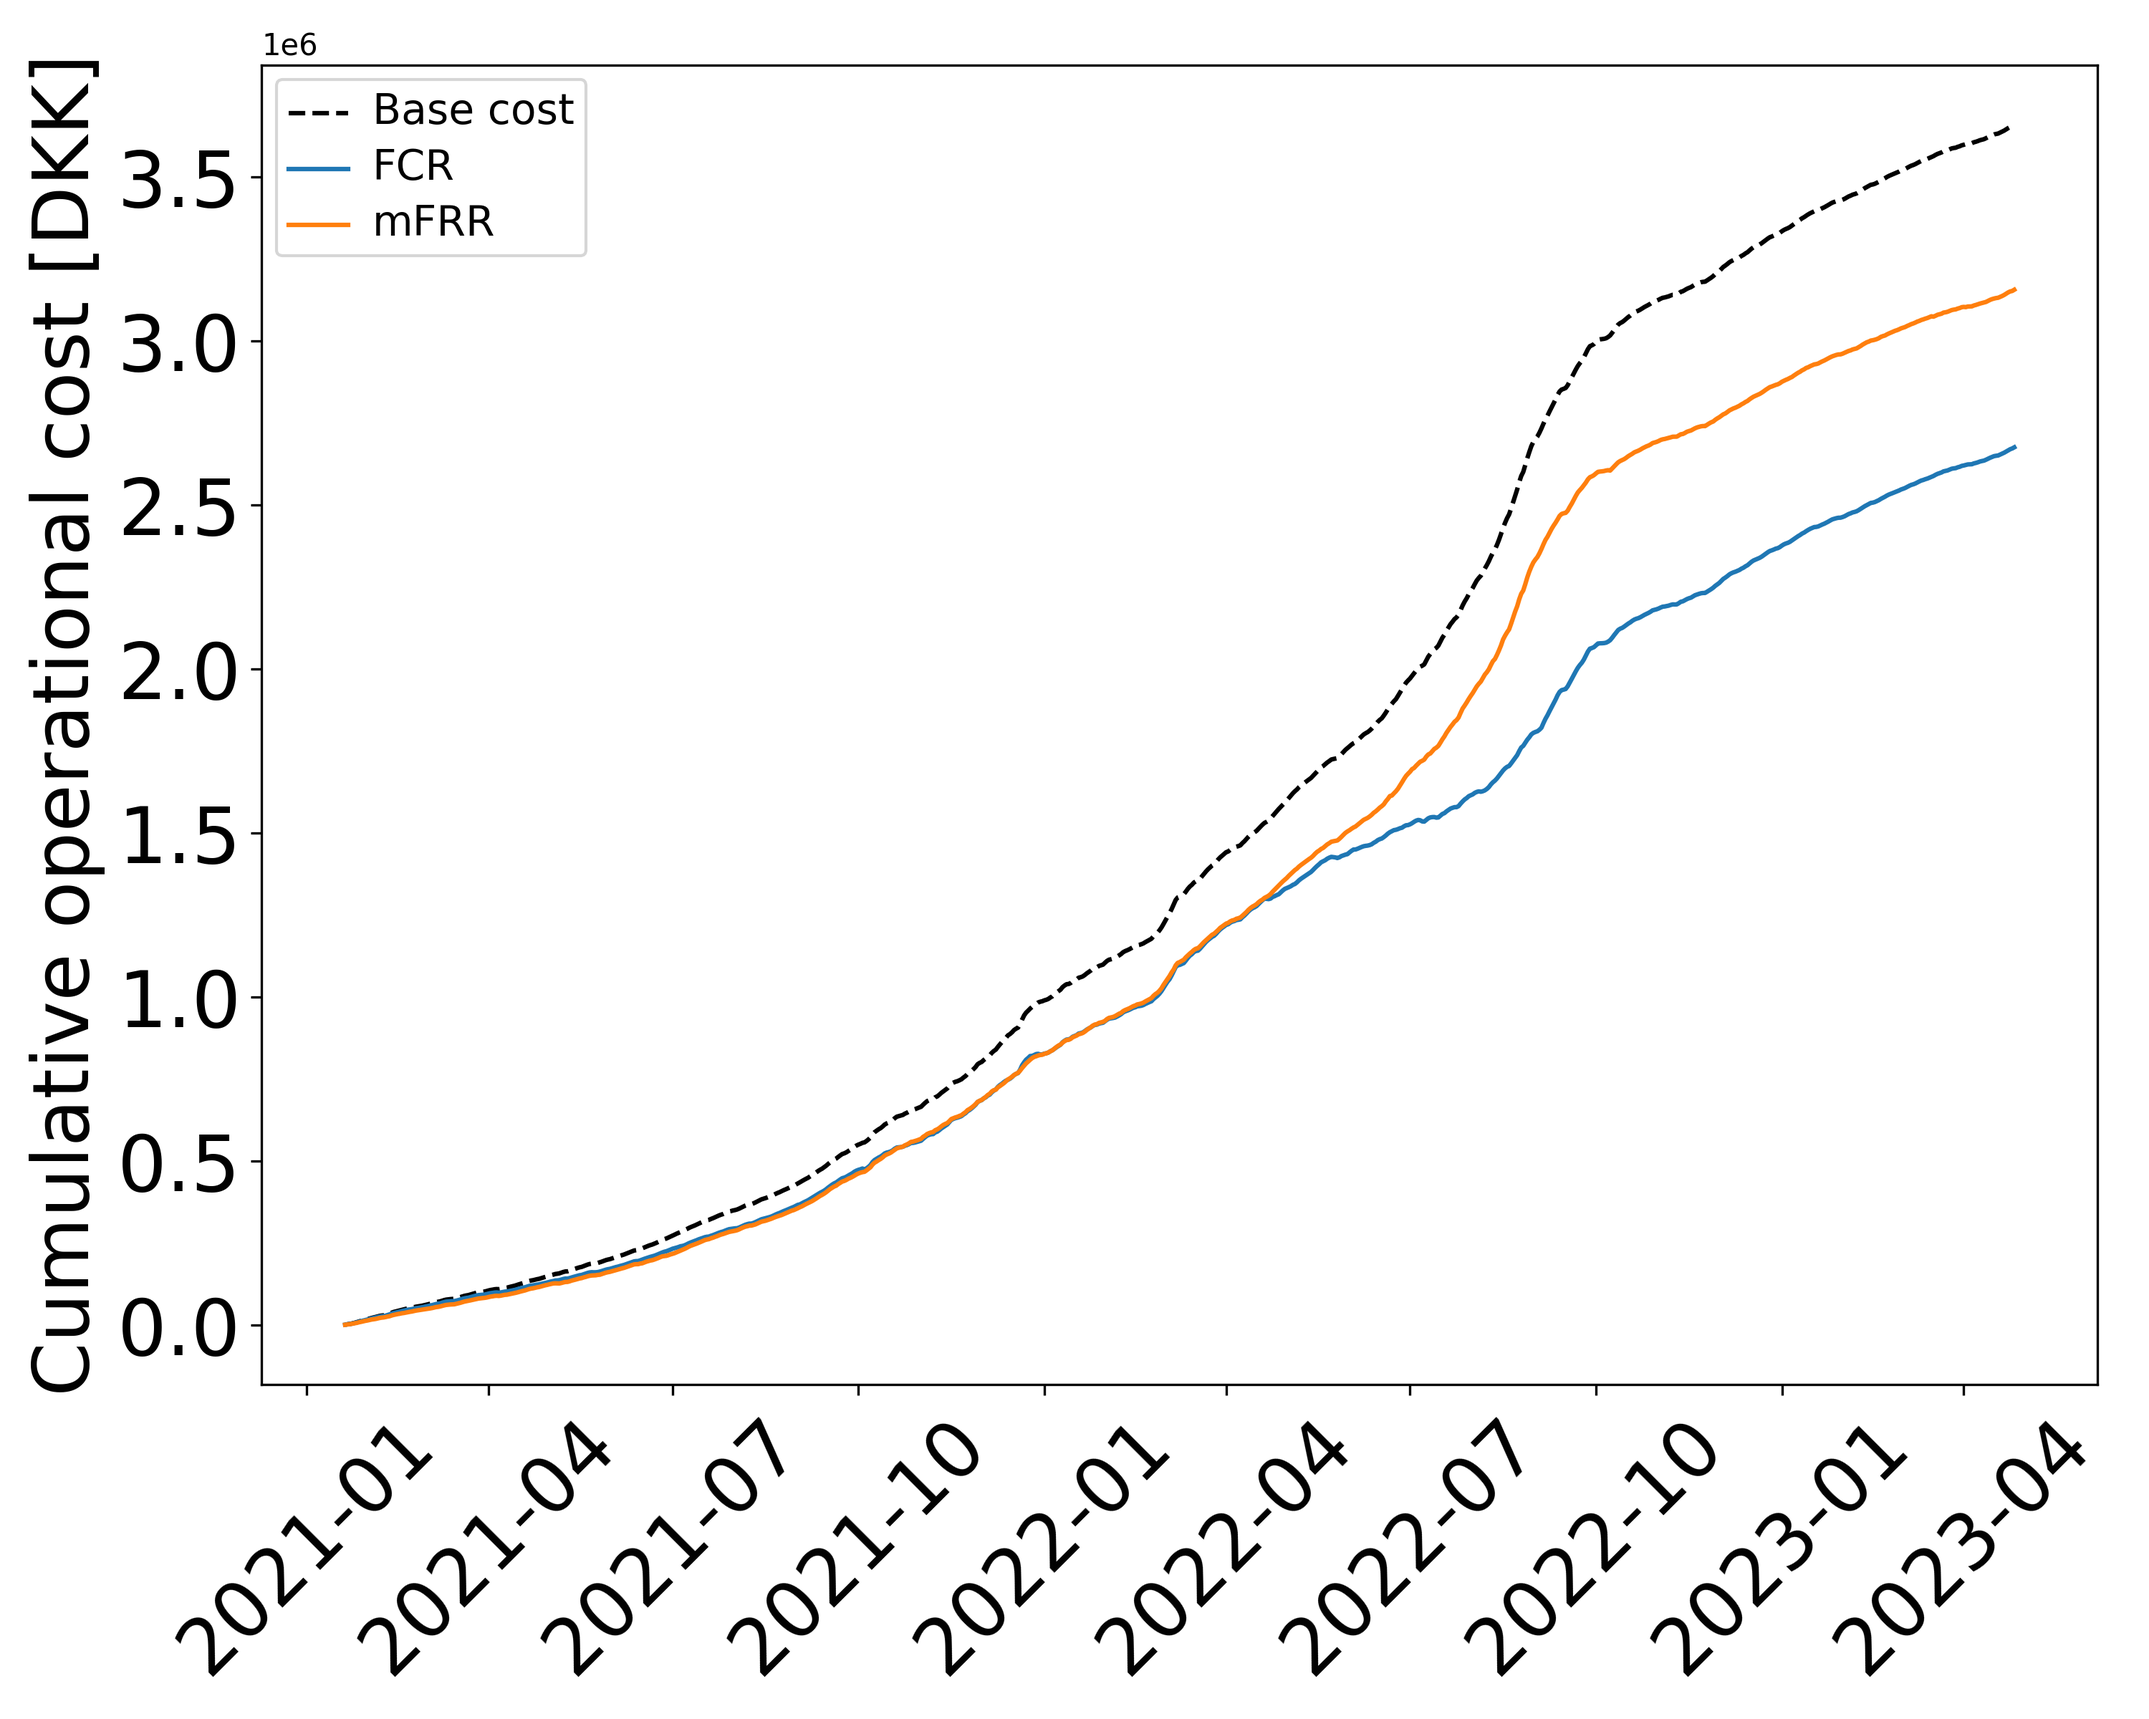
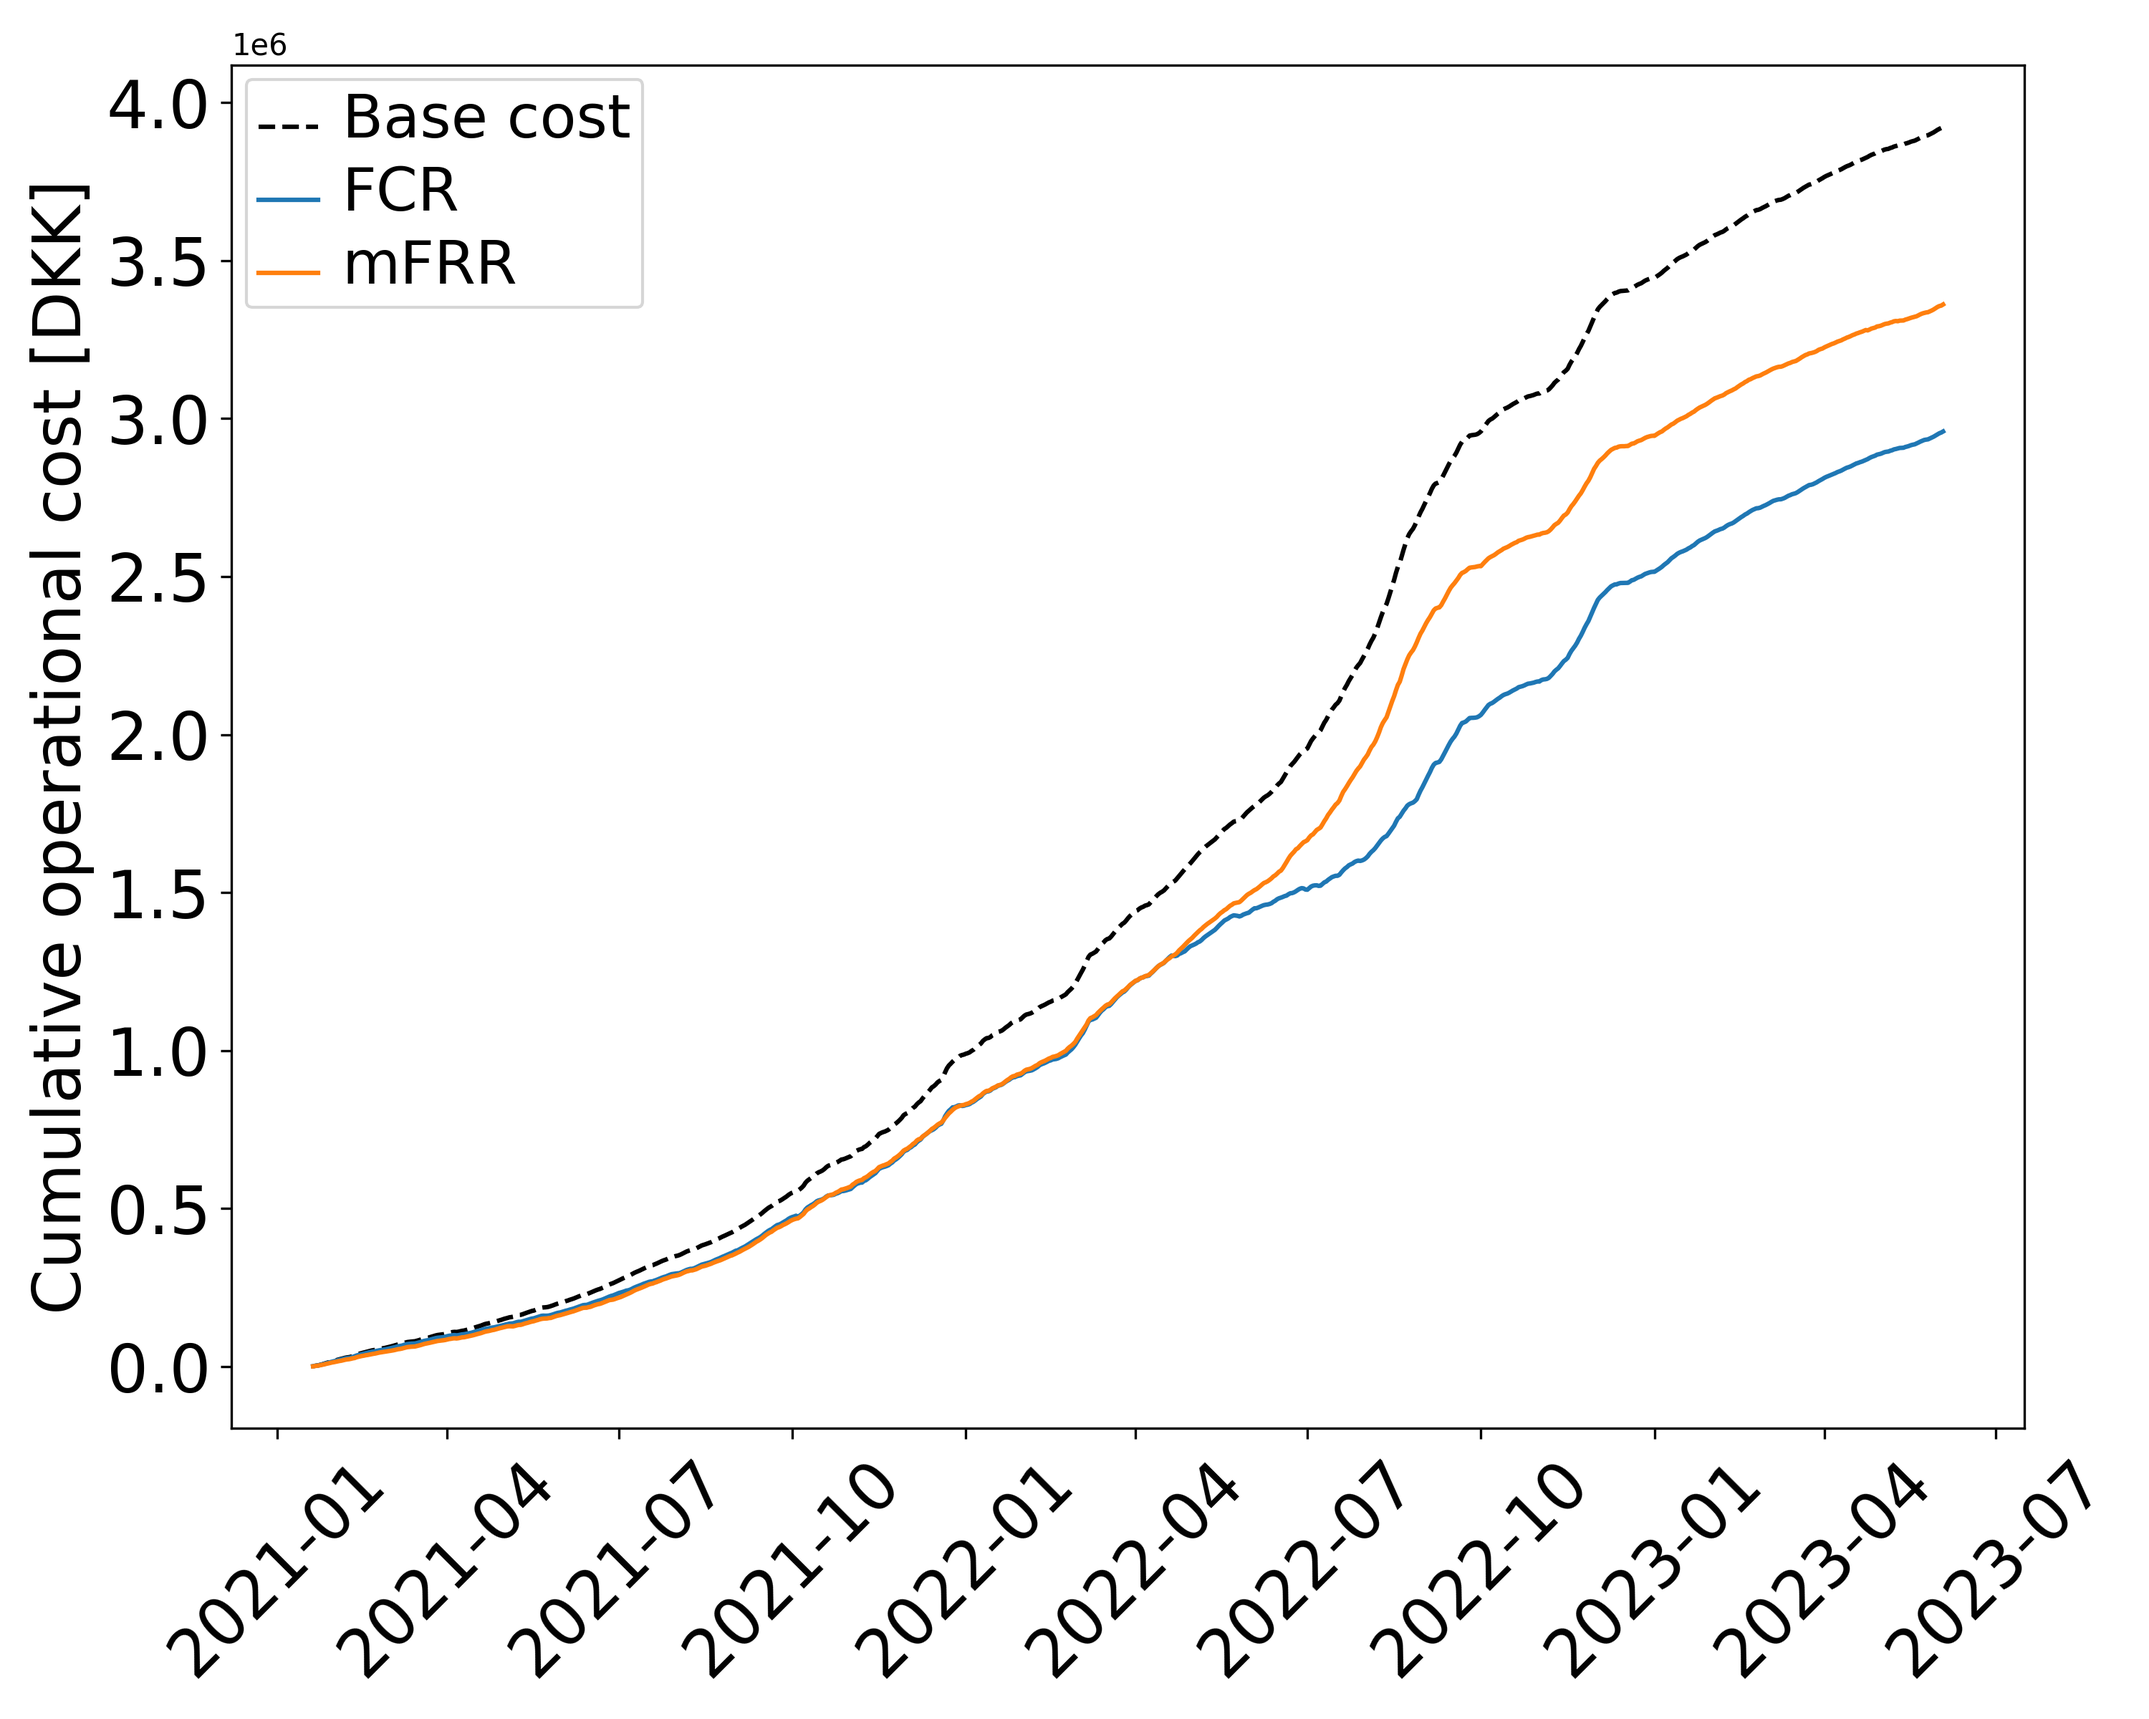
Final figures ready

diff --git a/tex/sigconf.tex b/tex/sigconf.tex
@@ -178,7 +178,7 @@
 %% The abstract is a short summary of the work to be presented in the
 %% article.
 \begin{abstract}
-    Incumbent industrial power consumerss can adapt to help balance the power grid. Single-state industry processes are particularly suited for balancing the power grid while earning money and reducing emissions. Using a real-world case study of a zinc galvanizing process, it is shown how modest investments into the power control of the furnace enable flexible provision in two ancillary services, frequency containment reserves (FCR) and manual frequency restoration reserves (mFRR), with a pay-back time potentially within a year. The monetary value of both services is significant with FCR being the preferable service as its impact on the temperature of the zinc is negligible. This paper serves to illustrate how current inflexible demand can become flexible and profitable while aiding the green transition by balancing the power grid.
+    Incumbent industrial power consumers can adapt to help balance the power grid. Single-state industry processes are particularly suited for balancing the power grid while earning money and reducing emissions. Using a real-world case study of a zinc galvanizing process, it is shown how modest investments into the power control of the furnace enable flexible provision in two ancillary services, frequency containment reserves (FCR) and manual frequency restoration reserves (mFRR), with a pay-back time potentially within a year. The monetary value of both services is significant with FCR being the preferable service as its impact on the temperature of the zinc is negligible. This paper serves to illustrate how current inflexible demand can become flexible and profitable while aiding the green transition by balancing the power grid.
 \end{abstract}
 
 %%

diff --git a/src/evaluation.py b/src/evaluation.py
@@ -132,8 +132,8 @@ def evaluate_oos(
     opt_results = []
     res_instances = []
 
-    tmp_cache = "tmp2.pkl"
-    tmp = load_tmp_cache(tmp_cache)
+    # tmp_cache = "tmp2.pkl"
+    # tmp = load_tmp_cache(tmp_cache)
     # assert len(tmp) == 0, "tmp cache should be empty"
 
     print(f"Preparing evaluation results with chunk size {chunk_size} ...")
@@ -143,14 +143,14 @@ def evaluate_oos(
         assert chunk_instance.nb_scenarios == 1, "We only support one scenario for OOS"
         print(f"   Evaluating chunk {i}...")
 
-        if i in tmp:
-            print(
-                f"   Chunk {i} already evaluated and is present in tmp cache. Skipping..."
-            )
-            res_inst, opt_result = tmp[i]
-            opt_results.append(opt_result)
-            res_instances.append(res_inst)
-            continue
+        # if i in tmp:
+        #     print(
+        #         f"   Chunk {i} already evaluated and is present in tmp cache. Skipping..."
+        #     )
+        #     res_inst, opt_result = tmp[i]
+        #     opt_results.append(opt_result)
+        #     res_instances.append(res_inst)
+        #     continue
 
         # neccessary to avoid error as penalty is at 20 DKK/kWh (for mFRR)
         chunk_instance.lambda_rp = np.minimum(19, chunk_instance.lambda_rp)
@@ -191,11 +191,11 @@ def evaluate_oos(
         opt_results.append(opt_result)
         res_instances.append(res_inst)
 
-        tmp[i] = (res_inst, opt_result)
-        save_to_tmp_cache(tmp, tmp_cache)
+        # tmp[i] = (res_inst, opt_result)
+        # save_to_tmp_cache(tmp, tmp_cache)
 
     # delete tmp cache
-    save_to_tmp_cache({}, tmp_cache)
+    # save_to_tmp_cache({}, tmp_cache)
 
     print(f"Evaluation done in {time.time() - start} seconds")
 

diff --git a/src/experiments/experiment.py b/src/experiments/experiment.py
@@ -14,14 +14,14 @@ class Experiment(ETLComponent):
     def experiment_run_mfrr(self, **kwargs: Any) -> None:
         run_oos = [True, True, True]
         year = [2021, 2022, 2023]
-        run_oos = [True, True]
-        year = [2022, 2023]
+        # run_oos = [True, True]
+        # year = [2022, 2023]
         for _run_oos, _year in zip(run_oos, year):
             # temperature_deltas = [1, 2, 3, 4, 5, 6, 7, 8, 9, 10, 50]
             # temperature_deltas = (
             #     [1, 5, 10, 50] if _year == 2022 else [50]
             # )
-            temperature_deltas = [3, 7, 50] if _year == 2022 else [50]
+            emperature_deltas = [1, 3, 5, 7, 10, 50] if _year == 2022 else [50]
             for delta_max in temperature_deltas:
                 params = {
                     "elafgift": 0.0,
@@ -43,11 +43,8 @@ class Experiment(ETLComponent):
     def experiment_run_fcr(self, **kwargs: Any) -> None:
         run_oos = [True, True, True]
         year = [2021, 2022, 2023]
-        year = [2021]
         for _run_oos, _year in zip(run_oos, year):
-            temperature_deltas = (
-                [1, 2, 3, 4, 5, 6, 7, 8, 9, 10] if _year == 2022 else [5]
-            )
+            temperature_deltas = [1, 3, 5, 7, 10] if _year == 2022 else [5]
             print(_run_oos, _year)
             for delta_max in temperature_deltas:
                 params = {

diff --git a/src/plots/plot_results.py b/src/plots/plot_results.py
@@ -469,15 +469,15 @@ def plot_profit_vs_delta_max(case: Case) -> None:
         for k, v in cache.items()
         if (
             eval(k)["case"] == case.name
-            and eval(k)["delta_max"] <= 10
+            and eval(k)["delta_max"] <= 50
             and eval(k)["year"] == year
         )
     ]
     print(len(all_results))
 
     delta_max = [e[0] for e in all_results]
-    cost = [[sum(q.total_cost for q in e[1][1])] for e in all_results]
-    base_cost = [[sum(q.base_cost_today for q in e[1][1])] for e in all_results]
+    cost = [[sum(q.total_cost if q is not None else 0.0 for q in e[1][1])] for e in all_results]
+    base_cost = [[sum(q.base_cost_today if q is not None else 0.0 for q in e[1][1])] for e in all_results]
     idx_sorted = np.argsort(delta_max)
 
     for d, f, b in zip(delta_max, cost, base_cost):
@@ -510,9 +510,9 @@ def main() -> None:
         # plot_mFRR_case_result()
         # plot_fcr_case_result()
         # plot_yearly_earnings()
-        plot_fcr_prices()
-        plot_mfrr_prices()
-        plot_profit_vs_delta_max(Case.FCR)
+        # plot_fcr_prices()
+        # plot_mfrr_prices()
+        # plot_profit_vs_delta_max(Case.FCR)
         plot_profit_vs_delta_max(Case.mFRR_AND_ENERGY)
 
 
